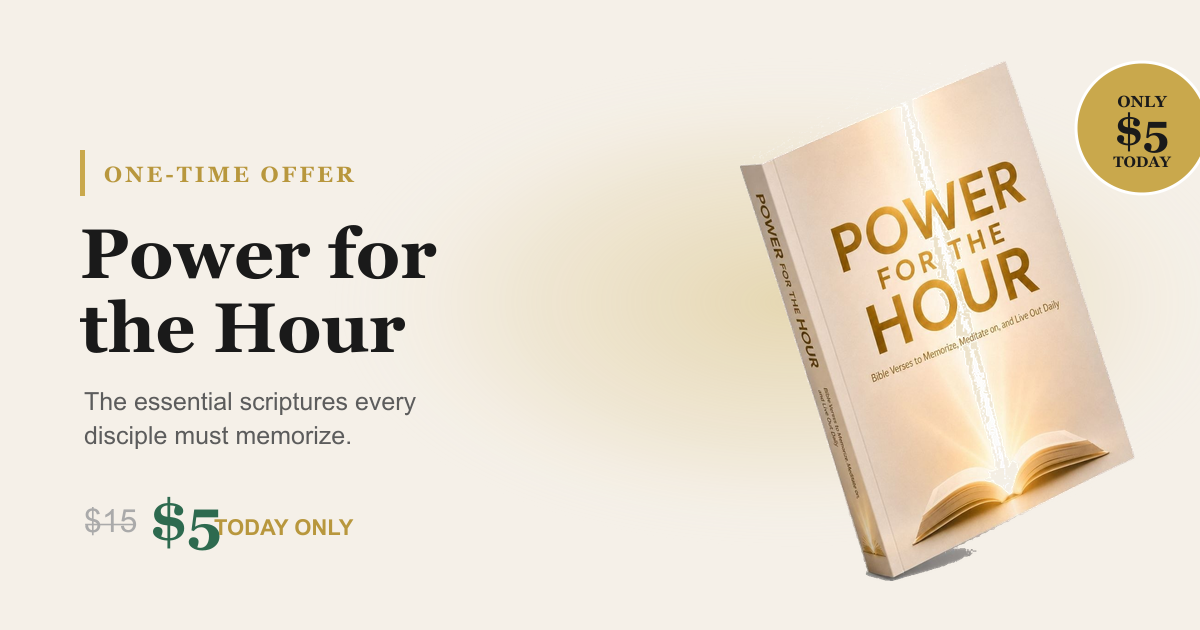
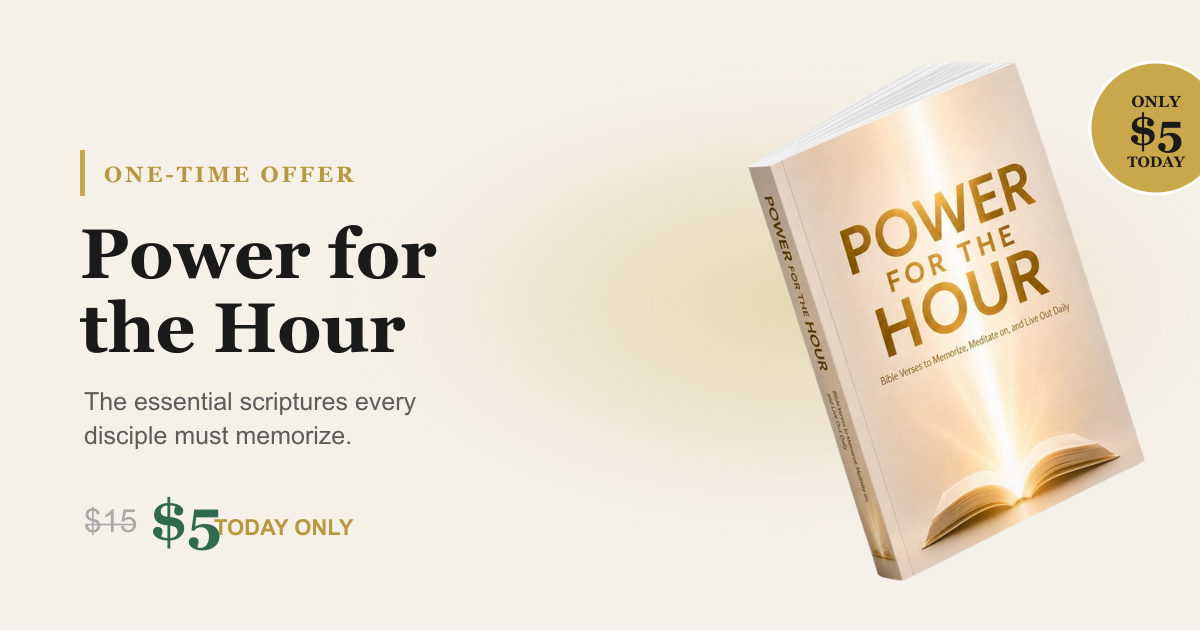
feat(pfth): new book render + positive digital-copy messaging
- Swap Power for the Hour hero/offer image to the new paperback render
  (fresh filename to avoid stale Next image-optimizer cache)
- Reframe all delivery copy positively: 'a digital copy to add to your
  phone's home screen for easy access while you memorize' (drop the
  'no physical book' phrasing)
- Regenerate 1200x630 social/OG card with the new render

diff --git a/src/app/power-for-the-hour/page.tsx b/src/app/power-for-the-hour/page.tsx
@@ -137,8 +137,8 @@ export default function PowerForTheHourPage() {
                                     <span className={styles.checkIcon}>
                                         <Check size={14} strokeWidth={3} />
                                     </span>
-                                    Instant digital download (PDF) — read it on your phone,
-                                    nothing ships to your door
+                                    A digital copy (PDF) to add to your phone&apos;s home
+                                    screen — for easy access when memorizing
                                 </li>
                             </ul>
 
@@ -183,10 +183,10 @@ export default function PowerForTheHourPage() {
                         >
                             <div className={styles.mockupGlow} aria-hidden="true" />
                             <Image
-                                src="/images/power-for-the-hour/power-for-the-hour-book.webp"
+                                src="/images/power-for-the-hour/power-for-the-hour-paperback.webp"
                                 alt="Power for the Hour by Paul Joseph — Book Mockup"
                                 width={900}
-                                height={1186}
+                                height={1179}
                                 className={styles.mockupImage}
                                 preload
                             />
@@ -196,8 +196,8 @@ export default function PowerForTheHourPage() {
                                 <span className={styles.badgeSmall}>TODAY</span>
                             </div>
                             <div className={styles.mockupCaption}>
-                                <Smartphone size={13} /> Digital edition · Instant PDF
-                                download — no physical book is shipped
+                                <Smartphone size={13} /> A digital copy to add to your
+                                phone&apos;s home screen — easy access while you memorize
                             </div>
                         </div>
                     </div>
@@ -432,10 +432,10 @@ export default function PowerForTheHourPage() {
                         <div className={styles.offerBoxBody}>
                             <div className={styles.offerBoxTop}>
                                 <Image
-                                    src="/images/power-for-the-hour/power-for-the-hour-book.webp"
+                                    src="/images/power-for-the-hour/power-for-the-hour-paperback.webp"
                                     alt="Power for the Hour — Digital Edition"
                                     width={900}
-                                    height={1186}
+                                    height={1179}
                                     className={styles.offerBoxImage}
                                 />
                                 <div className={styles.offerBoxTitleWrap}>
@@ -445,7 +445,7 @@ export default function PowerForTheHourPage() {
                                         Power for the Hour
                                     </div>
                                     <div className={styles.offerBoxSubtitle}>
-                                        Instant Digital Download · PDF
+                                        Instant Digital Copy · PDF
                                     </div>
                                 </div>
                             </div>
@@ -468,8 +468,8 @@ export default function PowerForTheHourPage() {
                                     <span className={styles.checkIcon}>
                                         <Check size={14} strokeWidth={3} />
                                     </span>
-                                    Instant digital download — read on any device (or print
-                                    your own copy). No physical book is shipped.
+                                    A digital copy to add to your phone&apos;s home screen —
+                                    easy access while you memorize
                                 </li>
                                 <li>
                                     <span className={styles.checkIcon}>
@@ -501,8 +501,8 @@ export default function PowerForTheHourPage() {
                             </a>
 
                             <p className={styles.securityLine}>
-                                🔒 Secure checkout · One-time $5 payment — no hidden fees ·
-                                Digital download only (no physical book shipped)
+                                🔒 Secure checkout · One-time $5 payment · Instant digital
+                                copy (PDF) for your phone
                             </p>
                         </div>
                     </div>
@@ -518,8 +518,8 @@ export default function PowerForTheHourPage() {
                             <p className={styles.guaranteeText}>
                                 If Power for the Hour doesn&apos;t strengthen your walk with
                                 God, reply to your delivery email within 30 days and we&apos;ll
-                                refund your $5 — no questions asked. And the download is
-                                yours to keep.
+                                refund your $5 — no questions asked. And the digital copy
+                                is yours to keep.
                             </p>
                         </div>
                     </div>
